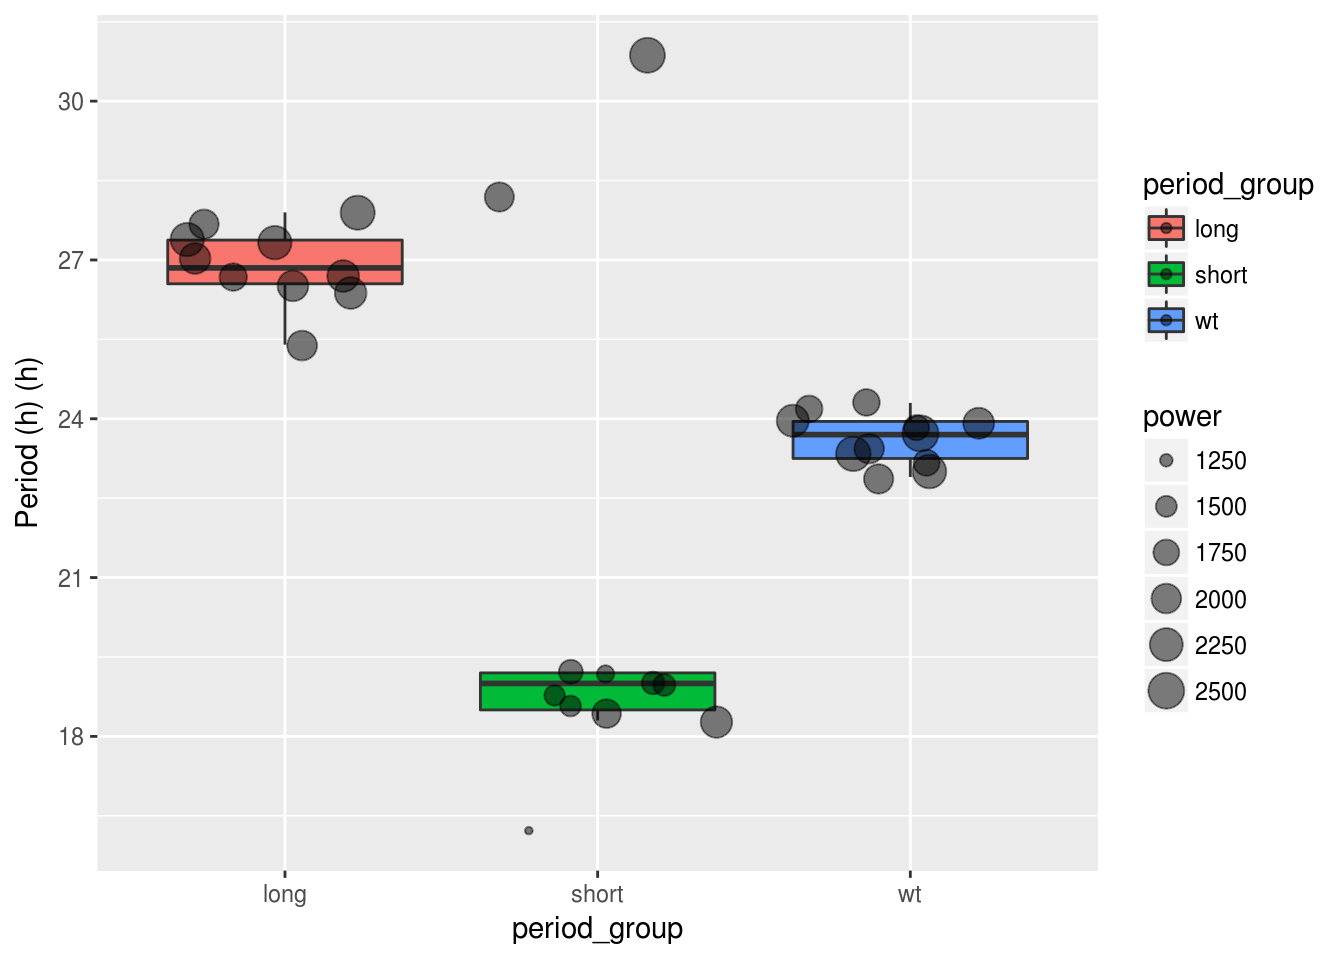
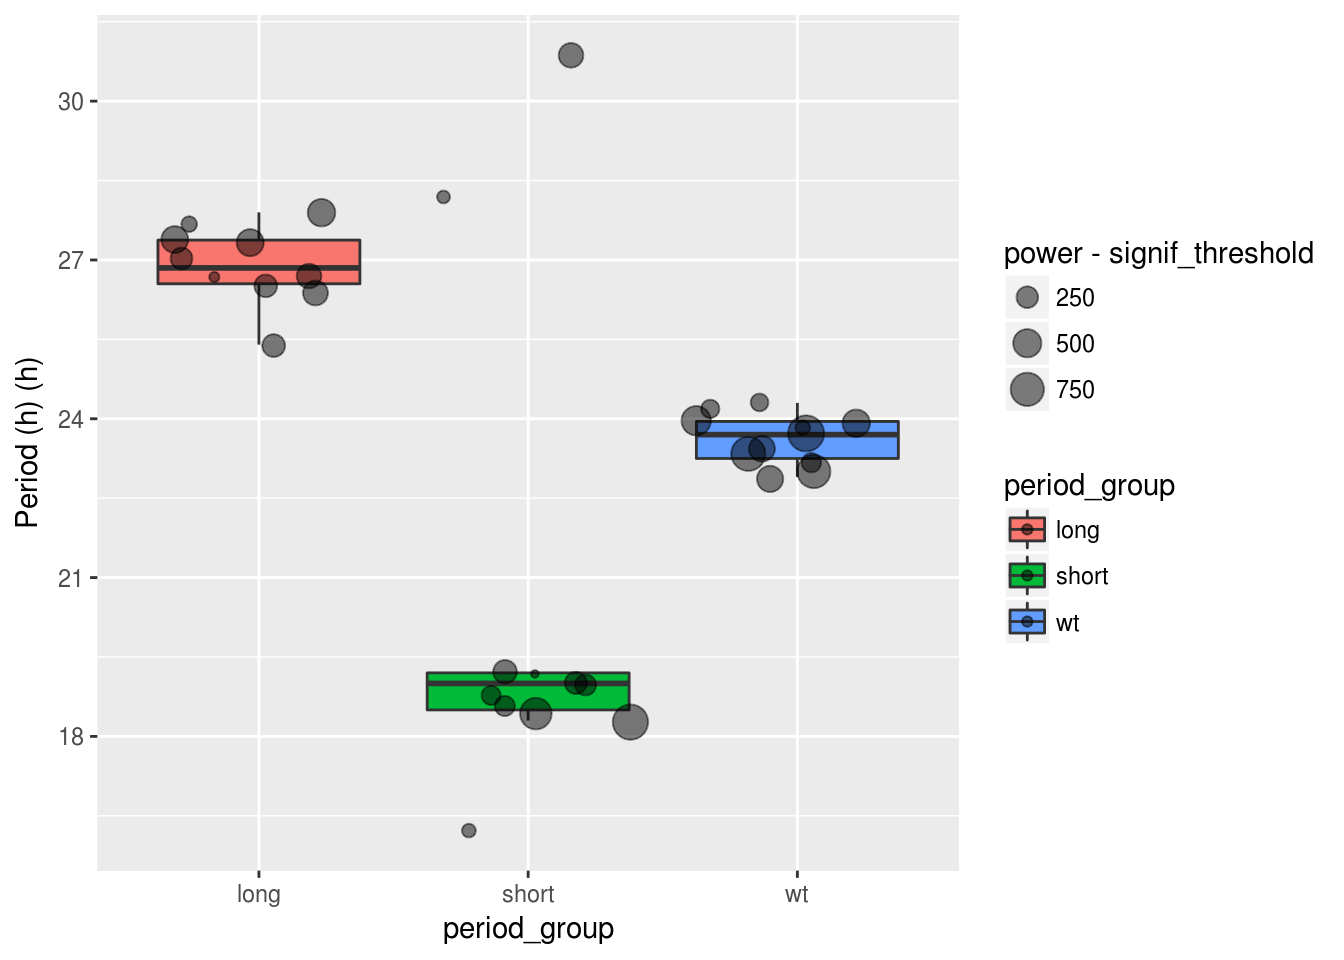
Automatic deployment after 25fcb34211c88524e08c0b4669454e29c42e3e01 [ci skip]

diff --git a/zeitgebr.html b/zeitgebr.html
@@ -622,7 +622,7 @@ summary_dt</code></pre></div>
 <p><code>summary_dt</code> can be used as a standard <code>R</code> dataframe for further analysis. For instance, with <code>ggplot</code>, I make a boxplot showing the distribution of periods, in h, for each groups. I also add point for each animal (so we see outliers). Then, I make the size of the points proportional to the power of the peak discovered.</p>
 <div class="sourceCode"><pre class="sourceCode r"><code class="sourceCode r"><span class="kw">ggplot</span>(summary_dt, <span class="kw">aes</span>(period_group, period, <span class="dt">fill=</span> period_group)) <span class="op">+</span><span class="st"> </span>
 <span class="st">        </span><span class="kw">geom_boxplot</span>(<span class="dt">outlier.colour =</span> <span class="ot">NA</span>) <span class="op">+</span>
-<span class="st">        </span><span class="kw">geom_jitter</span>(<span class="kw">aes</span>(<span class="dt">size=</span>power), <span class="dt">alpha=</span>.<span class="dv">5</span>) <span class="op">+</span>
+<span class="st">        </span><span class="kw">geom_jitter</span>(<span class="kw">aes</span>(<span class="dt">size=</span>power <span class="op">-</span><span class="st">  </span>signif_threshold), <span class="dt">alpha=</span>.<span class="dv">5</span>) <span class="op">+</span>
 <span class="st">        </span><span class="kw">scale_y_hours</span>(<span class="dt">name =</span> <span class="st">&quot;Period (h)&quot;</span>) </code></pre></div>
 <p><img src="rethomics_files/figure-html/unnamed-chunk-131-1.png" width="672" /></p>
 <p>Another direction could be to perform pairwise wilcoxon tests between groups:</p>

diff --git a/scopr.html b/scopr.html
@@ -701,7 +701,7 @@ dt &lt;-<span class="st"> </span><span class="kw">load_ethoscope</span>(metadata
                        <span class="dt">verbose=</span><span class="ot">FALSE</span>)
 )</code></pre></div>
 <pre><code>##    user  system elapsed 
-## 149.904   3.971 152.972</code></pre>
+## 155.600   3.583 158.496</code></pre>
 <p>However, the next time, we do the same thing way faster:</p>
 <div class="sourceCode"><pre class="sourceCode r"><code class="sourceCode r"><span class="kw">system.time</span>(
   dt &lt;-<span class="st"> </span><span class="kw">load_ethoscope</span>(metadata,
@@ -711,7 +711,7 @@ dt &lt;-<span class="st"> </span><span class="kw">load_ethoscope</span>(metadata
                        <span class="dt">verbose=</span><span class="ot">FALSE</span>)
 )</code></pre></div>
 <pre><code>##    user  system elapsed 
-##   1.847   0.063   1.871</code></pre>
+##   1.885   0.084   1.921</code></pre>
 <p>Here, we set <code>cache</code> to <code>&quot;ethoscope_cache&quot;</code>. This creates a new directory called <code>&quot;ethoscope_cache&quot;</code> (you can pick the name and location you want). If you to do a bit of tidying up, you can remove it without risk (it will just take time next time you load your data).</p>
 </div>
 </div>
